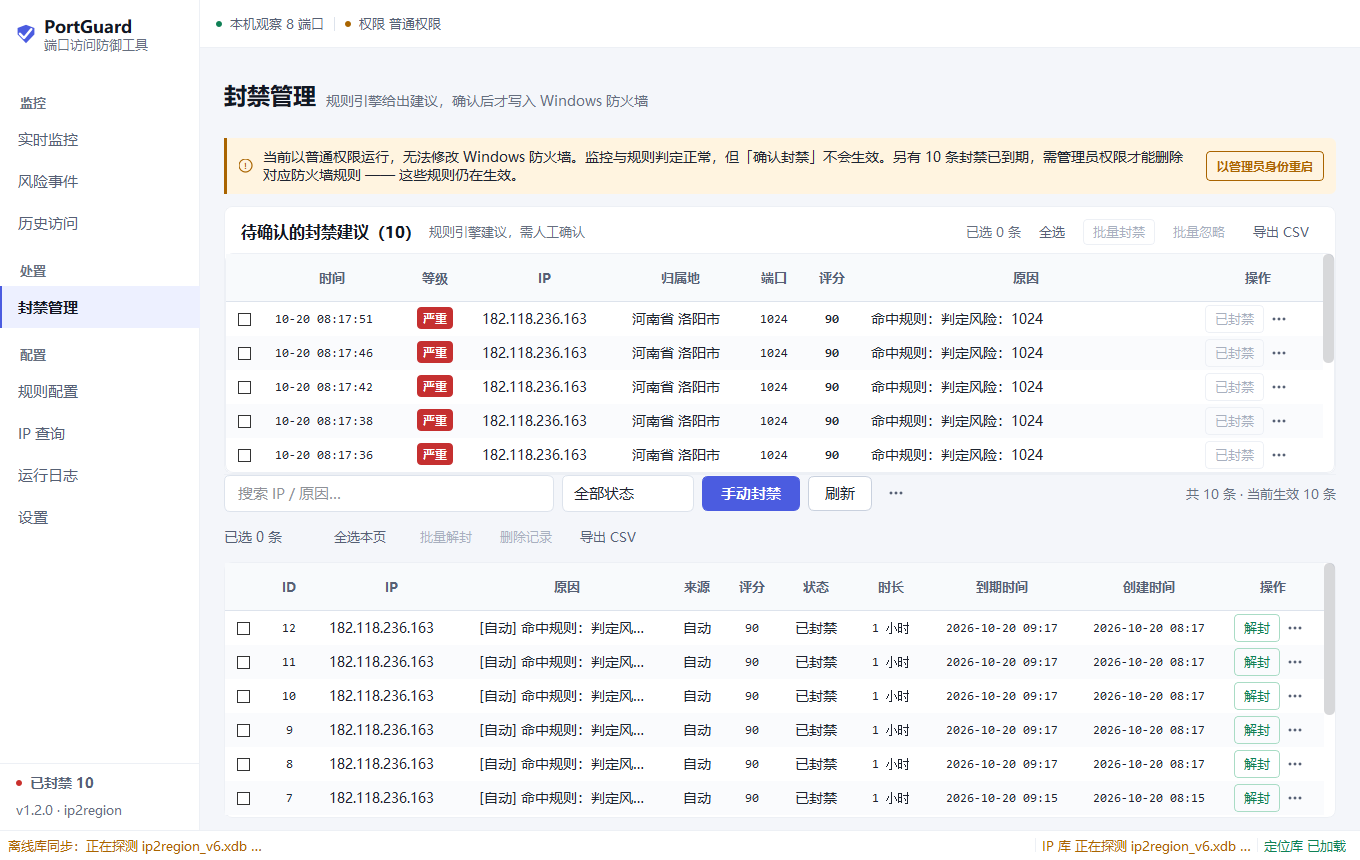
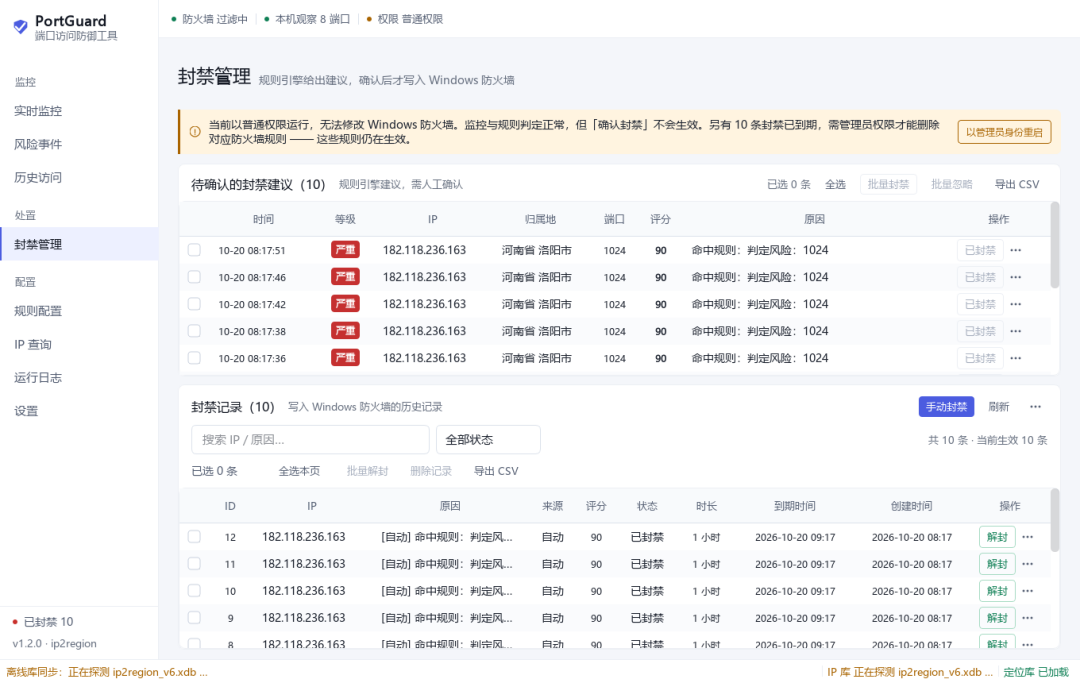
docs(design): 界面优化走查 + 按新界面重出截图
- _design/03_ui_polish.md：本轮改了什么、为什么、QSS/Qt 的限制、已验证门禁与遗留问题
- screenshots/*.png：六张配图按新界面重出（统计卡、勾选态、封禁双卡、事件工具卡、顶栏）

diff --git a/_design/03_ui_polish.md b/_design/03_ui_polish.md
@@ -1,0 +1,142 @@
+# PortGuard 界面优化走查（2026-10-21 / v1.2.x）
+
+本轮是**视觉层级与状态可信度**的走查，不改信息架构、不改业务流程、不动判定链。
+基线：`_design/01_visual_direction.md`（视觉方向）、`_design/02_ux_spec.md`（交互规范）。
+所有改动均落在 `gui/`，`core/` 与 `app/` 未触碰。
+
+---
+
+## 1. 视觉主题
+
+「素白哨岗 Paper Watchtower」不变：白底 + 石墨字 + 单一靛蓝强调色，颜色只表达语义。
+本轮只解决三件事：
+
+1. **第一屏读不懂**：统计卡把「量」放在「是什么」之前，三张卡右侧整片空白。
+2. **勾选不可信**：勾选态是纯色方块（工具条）与灰框深色像素勾（表格）两套视觉，
+   用户看不出「这张表勾了哪些行」。
+3. **最关键的健康态缺席**：Windows 防火墙是否真在过滤，只写在封禁页的一条警示里，
+   而它是「已封禁」三个字成立的前提。
+
+## 2. 色板
+
+未新增色相，只复用既有 token：
+
+| 用途 | Token | 值 | 说明 |
+| --- | --- | --- | --- |
+| 勾选/选中 | `C.primary` | `#4B5CE0` | 勾选框填充；白勾 4.5:1 达标 |
+| 勾选悬停 | `C.primary_hover` | `#3F4FD4` | |
+| 未勾选描边 | `C.border_strong` | `#C9D1DE` | 与 QSS 勾选框同源 |
+| 防火墙正常 | `C.success` | `#0F8055` | |
+| 防火墙部分开 | `C.warning` | `#A96400` | |
+| 防火墙全关 | `C.danger` | `#C9302C` | 圆点 + 文字同色 |
+| 未知 / 读不出 | `C.text_muted` | `#666F7F` | **未知不等于关闭** |
+
+## 3. 字号与数字
+
+| 位置 | 字号 | 字体 |
+| --- | --- | --- |
+| 统计数值 | 32px / 700 | Consolas（等宽，刷新时数字不跳宽） |
+| 统计标签 | 12.5px / 400 | Microsoft YaHei UI |
+| 统计单位（次/条/个） | 13px / 400 `text_muted` | 同上 |
+| 全局基准 | 15px | 同上 |
+
+约束保持：表头 ≥12.5、表格 ≥13.5、按钮 ≥14、表单标签 ≥13.5（`tests/test_theme.py` 卡死）。
+
+## 4. 组件规范
+
+### 4.1 统计卡 `StatCard`
+
+- 尺寸：`Expanding × 90`，内边距 18/14，行距 2。
+- 结构：`圆点 + 标签`（上）→ `数值 + 单位`（下，单位底对齐）。
+- 状态：数值与圆点同色（`set_color`）；计数为 0 时回落 `text_on_dark`，不染红
+  （红色 0 是噪声，会稀释真正有数时的语义）。
+- 用法：`StatCard("今日访问", "0", unit="次")`。
+
+### 4.2 勾选框（两处，一套视觉）
+
+| 场景 | 实现 | 尺寸 |
+| --- | --- | --- |
+| 工具条 / 对话框 | QSS `QCheckBox::indicator` | 16×16，圆角 3，选中填 `primary` + 白勾 |
+| 表格勾选列 | `CheckMarkDelegate`（自绘） | 16×16，同一圆角与配色，绘制在单元格正中 |
+
+- 白勾来源 `assets/check.png`（13×13），由 `tools/gen_ui_assets.py` 生成，可重复执行。
+- 为什么必须落一个位图：QSS 不支持 SVG data URI，也画不了折线；item view 的勾选
+  指示器由 delegate 用基础样式绘制，`QTableView::indicator` 不生效。
+- 勾着却被禁用：保留勾形、底色降到 `border_strong`，变回空框会让人以为勾选丢了。
+
+### 4.3 卡片与工具条
+
+- `QFrame#panel`：白底、`1px border_light`、圆角 8。
+- 卡片标题行：内边距 16/12/16/8，标题 `panel_title` 16/600 + 一句 `text_muted` 12.5。
+- 卡片内工具栏：左右 16、行间距 8，与标题行同一条左基线。
+
+### 4.4 分隔条 `QSplitter`
+
+10px 透明手感区，悬停才显 `border` 色。1px 实线夹在两张白卡之间时会被读成表格边框。
+
+## 5. 布局
+
+- 页面外边距统一 24/16/24/12，控件间距 12，卡片内 16/8。
+- **风险事件页**：`筛选行 + 批量行` 装进一张工具卡，中间 1px 分隔线 —— 两行性质不同
+  （筛选是「看哪些」、批量是「改哪些」），但同属「对整张表做点什么」。
+- **封禁管理页**：上下两块统一为卡片（`待确认的封禁建议（N）` / `封禁记录（N）`），
+  各带标题行、筛选行、批量行；两块之间用 10px 透明分隔条。原来下方是裸工具栏 + 裸表格。
+- **顶部状态条**：`防火墙 · 本机观察 · 权限`，顺序即「是否真在防护 → 在保护谁 → 能不能动手」。
+
+## 6. 层级与深度
+
+无阴影（QSS 不支持）。分层只靠三档明度：页面 `#F4F6FA` → 卡片 `#FFF` → 表头/抬升面
+`#F8FAFC`；1px 线只给可交互对象与卡片边界。
+
+## 7. 注意事项（踩过的限制）
+
+- QSS 只支持单值 `border-radius`，无 `box-shadow` / `transition` / `letter-spacing`。
+- 图片资源必须用**绝对路径**进 QSS：快捷方式启动时工作目录不是程序目录，
+  相对路径会静默失效（已走 `core.config.resource_path`，打包后指 `_MEIPASS`）。
+- 勾选框不要图省事「只改底色」：浅色主题下纯色方块与禁用色块无法区分。
+- 表格勾选列的命中判定交给基类（点指示器切换），自绘只负责画，不接管鼠标。
+
+## 8. 尺寸与输入
+
+- 窗口最小 1240×720，默认 1440×900；截图按 1360×860 复核。
+- 表格列宽为硬约束（无横向滚动）：有界内容给足不截断，无界内容（路径 / 命中规则 /
+  原因）走 tooltip。
+- 所有图标按钮 22×22（行内）/ 30×30（工具条），表格行高 34，表头随字号。
+
+## 9. 证据与遗留
+
+### 已验证
+
+| 门禁 | 结果 |
+| --- | --- |
+| `ruff check . && ruff format --check .` | 通过（101 文件已格式化） |
+| `mypy .` | Success: no issues found in 98 source files |
+| `pytest -q`（开发栈 py3.13 + PySide6） | **751 passed / 2 skipped**（基线 748 + 本轮新增 3 条） |
+| 交付栈 py3.8：`tests/test_py38_compat.py` + `tests/test_theme.py` | 37 passed |
+| `python selftest.py`（离屏端到端，42 项） | 全部通过，退出码 0 |
+
+- 新增护栏：`test_state_verdict_treats_unreadable_as_unknown_not_off`（读不出 ≠ 关闭）、
+  `test_state_verdict_covers_the_three_profile_cases`、
+  `test_checkbox_checked_state_ships_a_real_checkmark`（选中态必须带图，同时兜住资源被误删）。
+- 三条用例都做过**变异验证**：把实现改回错的样子，用例确实变红，不是空转。
+- 离屏渲染 8 页 + 逐项放大核对：统计卡基线、勾选态（工具条 / 表格行）、封禁页双卡、
+  事件页工具卡、顶栏防火墙四项文案。`screenshots/` 六张配图已按新界面重出。
+- 顶栏防火墙项取真实值：`netsh advfirewall show allprofiles state` → 「防火墙 过滤中 /
+  域=开 专用=开 公用=开」。读取在后台线程 + 30 秒节流，不占 GUI 线程。
+- **未在本次会话验证**：PySide2（交付栈）下的界面渲染 —— 本机 `envs/portguard38` 缺
+  `python.exe`，用基座 Python 3.8 + 注入 site-packages 时 `QApplication` 直接退出（与本轮
+  改动无关，改前的代码同样起不来）。PySide2 侧只验证到：枚举/位运算写法（`ViewItemFeature`
+  逐条实测）、`test_py38_compat` AST 全扫、`test_theme` 全部通过。**结论：发布前需在真机
+  （2008 R2 / Win7）跑一次 `selftest.py` 确认离屏渲染。**
+
+### 未完成 / 下一轮
+
+1. **表单类页面右侧留白过多**：规则配置 / 设置 / IP 查询三页在 1360+ 宽度下内容只占
+   左侧 55%，卡片右半与页面下半都是空的。建议给内容列设 max-width（约 980px）居中，
+   或把「标签 → 字段」改成两列网格。
+2. **实时监控「请求」列**：`POST /admin/login` 在 1360 宽下被截成 `POST /admi…`。
+   根因是固定列宽合计 1151 > 可用宽 1098，`请求` 作为唯一拉伸列只能拿到约 120px。
+   需要重新量列宽（两栈字体差异 6~20%），或把方法做成徽章、路径独立一列。
+3. **封禁页顶部建议卡会切掉半行**：分隔条给的高度不是行高整数倍（34px）。
+4. **封禁建议卡头拥挤**：标题 + 说明 + 5 个按钮挤一行，1440 以下会被压。
+5. **刷新缺少中间态**：只有空态 `EmptyState`，没有加载/刷新中的反馈。
